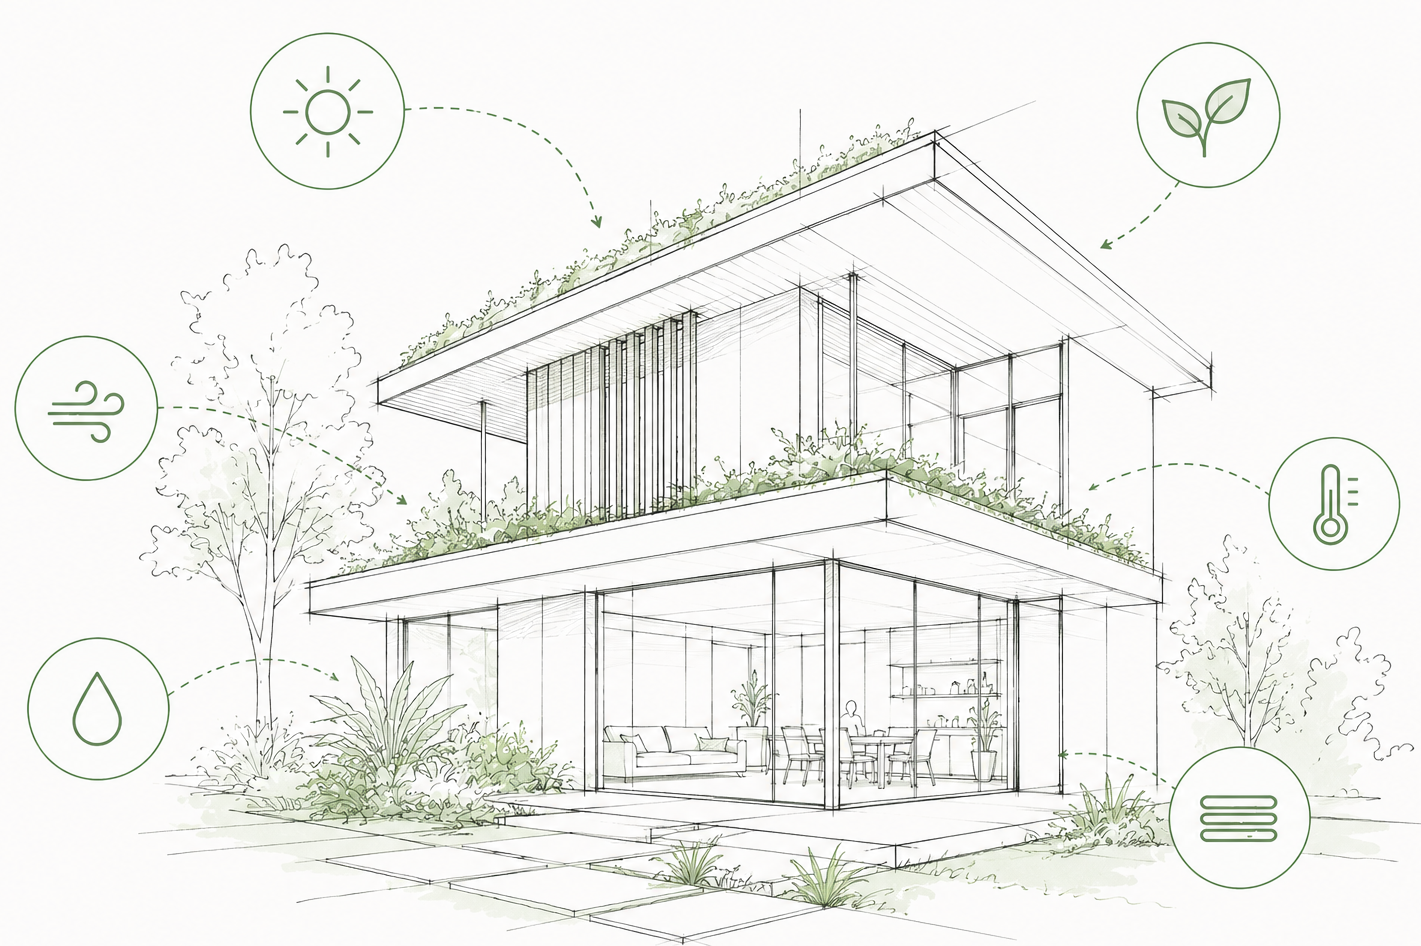
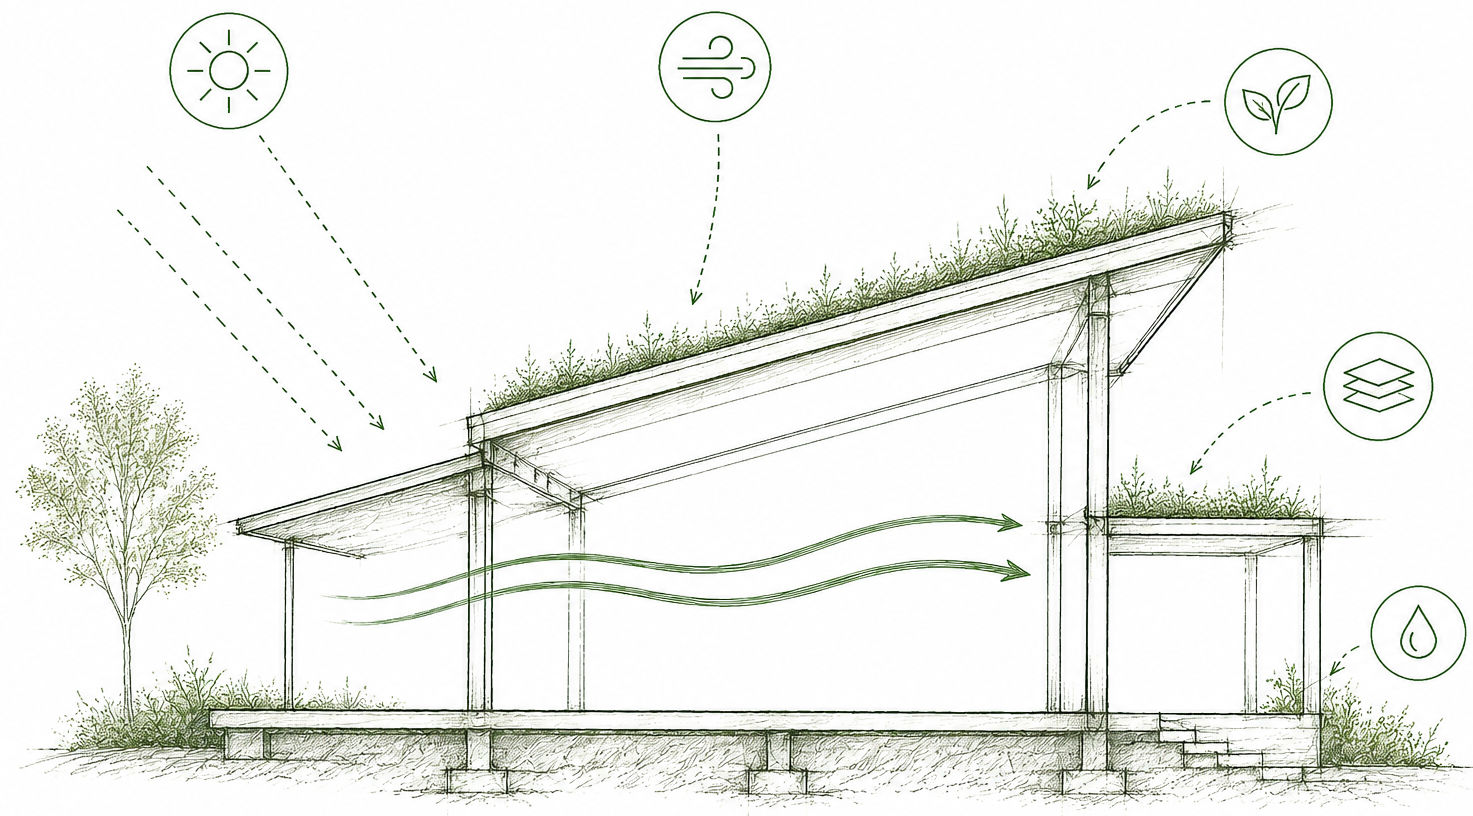
Implement Main/about HTML, CSS

diff --git a/src/components/About/About.jsx b/src/components/About/About.jsx
@@ -1,14 +1,39 @@
 import "./About.css";
 
+import profileImage from "../../images/profile-image.jpg";
+
 function About() {
   return (
     <section className="about">
-      <h2>Desarrollado por </h2>
+      <div className="about__container">
+        <div className="about__image">
+          <img
+            src={profileImage}
+            alt="Foto autor"
+            className="about__image-element"
+          />
+        </div>
 
-      <p>
-        EcoBuildLab ayuda a explorar estrategias de diseño sostenible utilizando
-        datos climáticos para apoyar decisiones arquitectónicas.
-      </p>
+        <div className="about__content">
+          <h2 className="about__title">Sobre mí</h2>
+
+          <p className="about__paragraph">
+            Soy <strong>Full Stack Web Developer</strong> apasionada por crear
+            aplicaciones web modernas, accesibles y responsivas. Trabajo con
+            JavaScript, React, HTML5, CSS3, Node.js, Express y MongoDB,
+            desarrollando soluciones intuitivas mediante la integración de APIs
+            y una experiencia de usuario centrada en el diseño.
+          </p>
+
+          <p className="about__paragraph">
+            Mi formación como arquitecta complementa mi perfil como
+            desarrolladora, permitiéndome crear herramientas digitales
+            orientadas a resolver problemas reales. <strong>EcoBuildLab</strong>
+            transforma datos climáticos en estrategias bioclimáticas para apoyar
+            las primeras decisiones de diseño arquitectónico.
+          </p>
+        </div>
+      </div>
     </section>
   );
 }

diff --git a/src/components/About/About.css b/src/components/About/About.css
@@ -1,0 +1,48 @@
+.about {
+  width: 100%;
+  background: #f6f7f5;
+}
+
+.about__container {
+  max-width: 1232px;
+  min-height: 510px;
+  margin: 0 auto;
+  display: flex;
+  align-items: center;
+  gap: 97px;
+  padding: 80px 101px 80px 75px;
+}
+
+.about__image {
+  width: 350px;
+  flex-shrink: 0;
+}
+.about__image-element {
+  width: 100%;
+  height: 350px;
+  border-radius: 50%;
+  display: block;
+  object-fit: cover;
+}
+
+.about__content {
+  width: 608px;
+}
+
+.about__title {
+  margin: 0;
+  font-family: "Roboto Slab", serif;
+  font-size: 40px;
+  font-weight: 400;
+  padding-bottom: 30px;
+}
+
+.about__paragraph {
+  margin: 0 0 22px;
+  font-size: 18px;
+  line-height: 24px;
+}
+
+.about__paragraph:last-child {
+  margin-bottom: 0;
+}

diff --git a/src/components/Main/Main.css b/src/components/Main/Main.css
@@ -8,12 +8,14 @@
   display: flex;
   justify-content: space-between;
   gap: 10px;
-  min-height: 550px;
+  min-height: 672px;
+  padding: 80px 0;
 }
 
 .hero__content {
   width: 590px;
-  padding-top: 150px;
+  height: 374px;
+  margin-top: 138px;
 }
 
 .hero__title {
@@ -22,13 +24,13 @@
   font-weight: 700;
   line-height: 64px;
   margin: 0;
-  padding-bottom: 20px;
+  padding-bottom: 30px;
 }
 
 .hero__description {
   font-size: 18px;
   margin: 0;
-  padding-bottom: 60px;
+  padding-bottom: 80px;
   width: 505px;
 }
 
@@ -51,11 +53,10 @@
   display: flex;
   justify-content: center;
   align-items: center;
-  padding-top: 50px;
 }
 
 .hero__image img {
   width: 100%;
-  height: auto;
+  height: 100%;
   display: block;
 }
